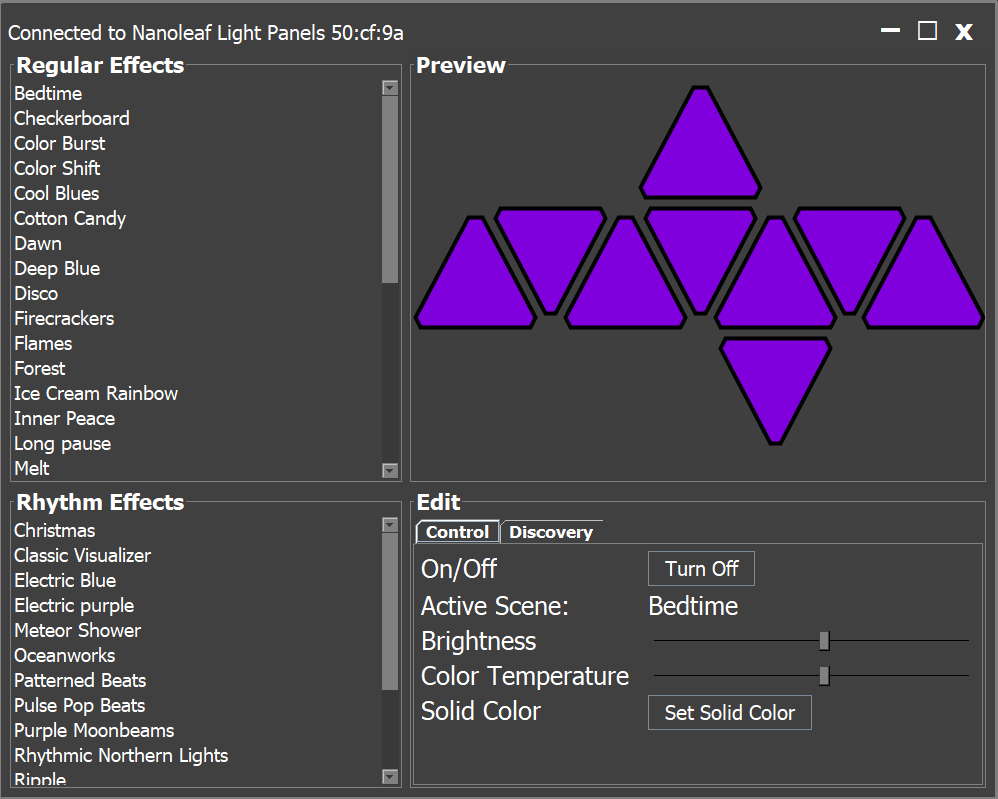
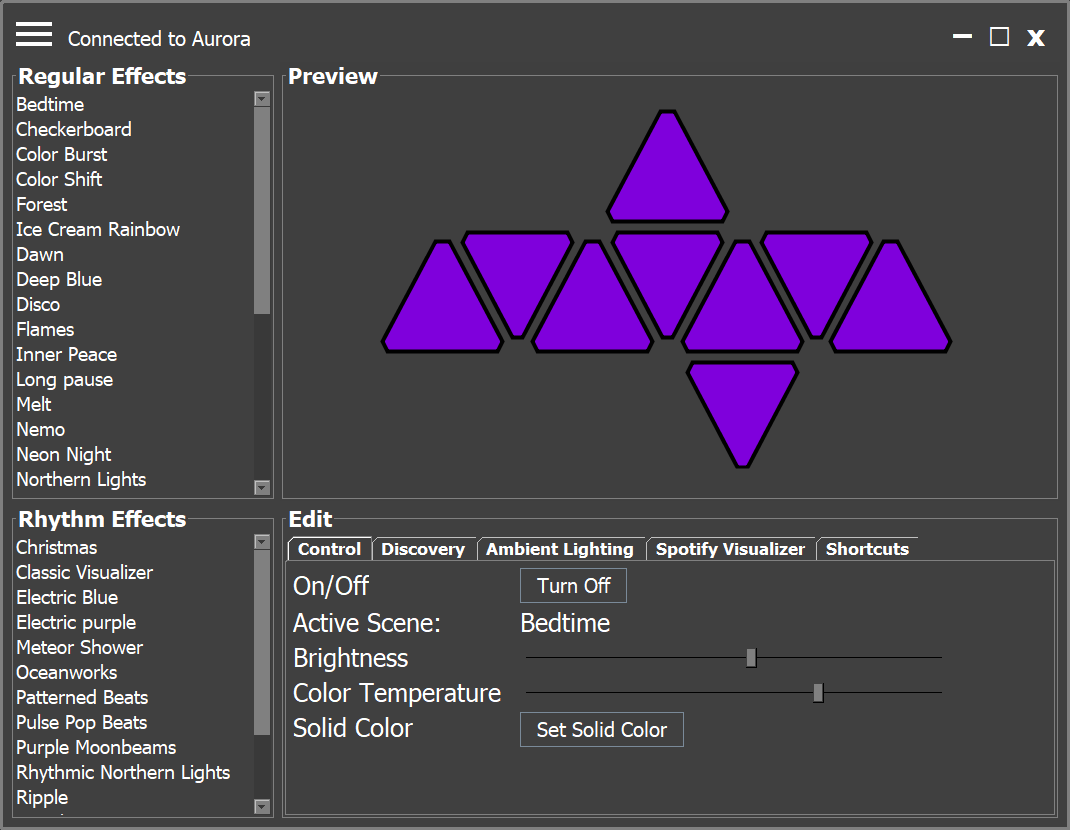
Updated screenshots and fixed version id for release

diff --git a/src/io/github/rowak/nanoleafdesktop/Main.java b/src/io/github/rowak/nanoleafdesktop/Main.java
@@ -67,7 +67,7 @@ import javax.swing.JButton;
 
 public class Main extends JFrame
 {
-	public static final Version VERSION = new Version("v0.7.0", false);
+	public static final Version VERSION = new Version("v0.7.0", true);
 	public static final String VERSION_HOST =
 			"https://api.github.com/repos/rowak/nanoleaf-desktop/releases";
 	public static final String GIT_REPO = "https://github.com/rowak/nanoleaf-desktop";
